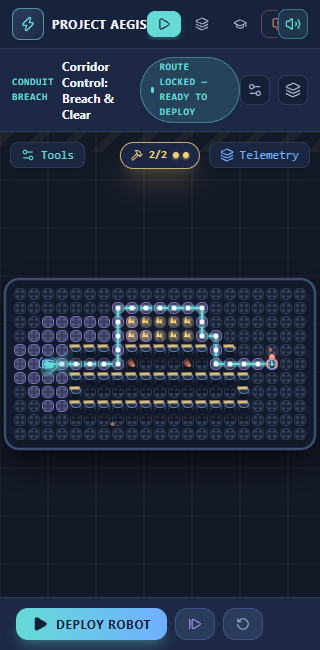
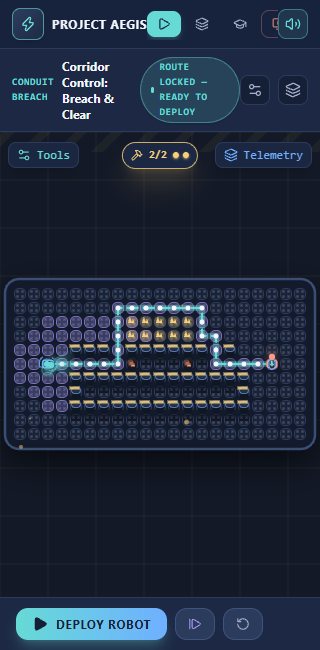
fix(v4.2.2): resolve pre-deploy presentation transit trigger re-arming and improve narrow viewport mobile HUD clearance

diff --git a/tests/v4_2_2_stability_mobile.test.ts b/tests/v4_2_2_stability_mobile.test.ts
@@ -282,5 +282,202 @@ describe('Project Aegis V4.2.2 Stability & Edge Cases Test Suite', () => {
       expect(robot.state).toBe('ARRIVED');
       expect(robot.logicalPos).toEqual(deepVaultMission.target);
     });
+
+    it('Replay after a breached Challenge Mission cleanly restores original mission state and repair charges', () => {
+      // 1. Setup and breach Challenge 1
+      const model = new GridModel(
+        challenge1Mission.rows,
+        challenge1Mission.cols,
+        challenge1Mission.start,
+        challenge1Mission.target
+      );
+      challenge1Mission.initialWalls.forEach((w) => model.setTile(w.r, w.c, 'WALL'));
+      challenge1Mission.initialRoughTerrain?.forEach((t) => model.setTile(t.r, t.c, 'ROUGH_TERRAIN'));
+      challenge1Mission.initialDebris?.forEach((d) => model.setTile(d.r, d.c, 'DEBRIS'));
+
+      let charges = challenge1Mission.repairCharges!;
+      expect(charges).toBe(2);
+
+      // Spend all charges
+      challenge1Mission.initialDebris!.forEach((d) => {
+        model.setTile(d.r, d.c, 'EMPTY');
+        charges--;
+      });
+      expect(charges).toBe(0);
+
+      // Navigate robot to destination
+      const robot = new RobotController(challenge1Mission.start);
+      const res = findPathAStar({
+        grid: model.tiles,
+        rows: model.rows,
+        cols: model.cols,
+        start: challenge1Mission.start,
+        goal: challenge1Mission.target,
+        movementMode: '4-directional',
+        heuristicType: 'manhattan',
+      });
+      robot.setPath(res.path, res.totalCost);
+      robot.startMoving();
+      while (robot.state === 'MOVING') {
+        robot.update(0.35, 10);
+      }
+      expect(robot.state).toBe('ARRIVED');
+      expect(robot.stepsTaken).toBe(16);
+
+      // 2. Perform Authoritative Replay (identical to handleReplayMission / GameHUD key re-mount)
+      const freshModel = new GridModel(
+        challenge1Mission.rows,
+        challenge1Mission.cols,
+        challenge1Mission.start,
+        challenge1Mission.target
+      );
+      challenge1Mission.initialWalls.forEach((w) => freshModel.setTile(w.r, w.c, 'WALL'));
+      challenge1Mission.initialRoughTerrain?.forEach((t) => freshModel.setTile(t.r, t.c, 'ROUGH_TERRAIN'));
+      challenge1Mission.initialDebris?.forEach((d) => freshModel.setTile(d.r, d.c, 'DEBRIS'));
+
+      robot.reset(challenge1Mission.start);
+      charges = challenge1Mission.repairCharges!;
+
+      // 3. Verify complete restoration of mission state
+      expect(charges).toBe(2);
+      expect(robot.state).toBe('IDLE');
+      expect(robot.logicalPos).toEqual(challenge1Mission.start);
+      expect(robot.stepsTaken).toBe(0);
+      expect(robot.executedCost).toBe(0);
+      expect(robot.replansCount).toBe(0);
+
+      // Debris tiles must be restored and blocking direct corridor
+      challenge1Mission.initialDebris!.forEach((d) => {
+        expect(freshModel.tiles[d.r][d.c]).toBe('DEBRIS');
+        expect(isTileBlocked(freshModel.tiles[d.r][d.c])).toBe(true);
+      });
+
+      // A* path is once again forced to take upper rough-terrain detour
+      const replayedPath = findPathAStar({
+        grid: freshModel.tiles,
+        rows: freshModel.rows,
+        cols: freshModel.cols,
+        start: challenge1Mission.start,
+        goal: challenge1Mission.target,
+        movementMode: '4-directional',
+        heuristicType: 'manhattan',
+      });
+      expect(replayedPath.found).toBe(true);
+      expect(replayedPath.path.length - 1).toBeGreaterThan(16);
+      expect(replayedPath.path.some((wp) => wp.r <= 3)).toBe(true);
+    });
+
+    it('Reset and mission switching with exhausted charges correctly isolates and restores each mission', () => {
+      // 1. Exhaust charges on Challenge 1
+      let c1Charges = challenge1Mission.repairCharges!;
+      c1Charges = 0; // all charges consumed
+
+      // Reset within Challenge 1
+      c1Charges = challenge1Mission.repairCharges!;
+      expect(c1Charges).toBe(2);
+
+      // Exhaust charges again
+      c1Charges = 0;
+
+      // 2. Switch to Deep Vault Quarantine (Challenge 2)
+      const deepVaultModel = new GridModel(
+        deepVaultMission.rows,
+        deepVaultMission.cols,
+        deepVaultMission.start,
+        deepVaultMission.target
+      );
+      deepVaultMission.initialWalls.forEach((w) => deepVaultModel.setTile(w.r, w.c, 'WALL'));
+      deepVaultMission.initialDebris?.forEach((d) => deepVaultModel.setTile(d.r, d.c, 'DEBRIS'));
+
+      let deepVaultCharges = deepVaultMission.repairCharges!;
+      expect(deepVaultCharges).toBe(2);
+
+      // Verify Deep Vault starts with its own distinct bulkheads intact
+      expect(deepVaultMission.initialDebris).toBeDefined();
+      deepVaultMission.initialDebris!.forEach((d) => {
+        expect(deepVaultModel.tiles[d.r][d.c]).toBe('DEBRIS');
+        expect(isTileDesignatedDebris(d, deepVaultMission)).toBe(true);
+        expect(isTileDesignatedDebris(d, challenge1Mission)).toBe(false);
+      });
+
+      // Exhaust Deep Vault charges
+      deepVaultCharges = 0;
+
+      // Reset Deep Vault
+      deepVaultCharges = deepVaultMission.repairCharges!;
+      expect(deepVaultCharges).toBe(2);
+
+      // Switch back to Challenge 1
+      const c1RestoredModel = new GridModel(
+        challenge1Mission.rows,
+        challenge1Mission.cols,
+        challenge1Mission.start,
+        challenge1Mission.target
+      );
+      challenge1Mission.initialWalls.forEach((w) => c1RestoredModel.setTile(w.r, w.c, 'WALL'));
+      challenge1Mission.initialDebris?.forEach((d) => c1RestoredModel.setTile(d.r, d.c, 'DEBRIS'));
+      const c1RestoredCharges = challenge1Mission.repairCharges!;
+
+      expect(c1RestoredCharges).toBe(2);
+      expect(c1RestoredModel.tiles[5][8]).toBe('DEBRIS');
+      expect(c1RestoredModel.tiles[5][12]).toBe('DEBRIS');
+    });
+
+    it('Pre-deploy presentation collapse suppresses false demo window re-arming during bypass transit', () => {
+      const model = new GridModel(
+        presentationMission.rows,
+        presentationMission.cols,
+        presentationMission.start,
+        presentationMission.target
+      );
+      presentationMission.initialWalls.forEach((w) => model.setTile(w.r, w.c, 'WALL'));
+
+      // Pre-deploy collapse placed at (5, 10)
+      const collapseCoord = presentationMission.demoBlockageCoord!;
+      model.setTile(collapseCoord.r, collapseCoord.c, 'WALL');
+
+      const isDemoBlockagePresent = isTileBlocked(model.tiles[collapseCoord.r][collapseCoord.c]);
+      expect(isDemoBlockagePresent).toBe(true);
+
+      const robot = new RobotController(presentationMission.start);
+      const plan = findPathAStar({
+        grid: model.tiles,
+        rows: model.rows,
+        cols: model.cols,
+        start: presentationMission.start,
+        goal: presentationMission.target,
+        movementMode: '4-directional',
+        heuristicType: 'manhattan',
+      });
+      expect(plan.found).toBe(true);
+      robot.setPath(plan.path, plan.totalCost);
+
+      // Start movement along the 20-step bypass
+      robot.startMoving();
+
+      // Step until robot reaches col 3 (inside coordinate bounds where demo window would normally trigger)
+      while (robot.state === 'MOVING' && robot.logicalPos.c < 3) {
+        robot.update(0.1, 2);
+      }
+
+      const tel = robot.getTelemetry();
+      expect(tel.currentLogicalCoord.c).toBeGreaterThanOrEqual(3);
+      expect(tel.currentLogicalCoord.r).toBe(5);
+
+      // Verify that because demo collapse is already present, demo window does NOT re-arm
+      const isInDemoWindow =
+        !isDemoBlockagePresent &&
+        tel.replansCount === 0 &&
+        tel.currentLogicalCoord.r === 5 &&
+        robot.state === 'MOVING' &&
+        tel.currentLogicalCoord.c >= 3 &&
+        tel.currentLogicalCoord.c <= 8;
+
+      expect(isInDemoWindow).toBe(false);
+
+      // Verify detour is actively recognized
+      const isDetourActive = tel.replansCount > 0 || (isDemoBlockagePresent && tel.totalStepsTaken > 0);
+      expect(isDetourActive).toBe(true);
+    });
   });
 });

diff --git a/src/components/GameHUD.tsx b/src/components/GameHUD.tsx
@@ -989,7 +989,7 @@ export const GameHUD: React.FC<GameHUDProps> = ({
                 setActiveDrawer('TOOLS');
               }}
               aria-label="Open Tools Drawer"
-              className="absolute top-2.5 sm:top-3 left-2.5 sm:left-3 z-20 px-2.5 sm:px-3 py-1 sm:py-1.5 rounded-lg bg-[#1C2844]/90 hover:bg-[#253554] border border-[#2B3B5B] text-xs font-mono text-[#66DAD5] flex items-center gap-1.5 shadow-lg backdrop-blur-md transition-all select-none"
+              className="absolute top-2.5 sm:top-3 left-2 sm:left-3 z-20 px-2 sm:px-3 py-1 sm:py-1.5 rounded-lg bg-[#1C2844]/90 hover:bg-[#253554] border border-[#2B3B5B] text-xs font-mono text-[#66DAD5] flex items-center gap-1.5 shadow-lg backdrop-blur-md transition-all select-none"
             >
               <Settings2 className="w-3.5 h-3.5 shrink-0" />
               <span>Tools<span className="hidden sm:inline"> [T]</span></span>
@@ -1003,7 +1003,7 @@ export const GameHUD: React.FC<GameHUDProps> = ({
               role="status"
               aria-label={`Repair Charges: ${repairCharges} of ${mission.repairCharges}`}
               title={`Repair Energy: ${repairCharges} / ${mission.repairCharges}`}
-              className={`absolute top-2.5 sm:top-3 left-1/2 -translate-x-1/2 z-20 px-2.5 sm:px-3.5 py-1 sm:py-1.5 rounded-full border shadow-xl backdrop-blur-md flex items-center gap-1.5 sm:gap-2 font-mono text-[11px] sm:text-xs font-bold transition-all whitespace-nowrap select-none pointer-events-auto ${
+              className={`absolute top-2.5 sm:top-3 left-1/2 -translate-x-1/2 z-20 px-2 sm:px-3.5 py-1 sm:py-1.5 rounded-full border shadow-xl backdrop-blur-md flex items-center gap-1.5 sm:gap-2 font-mono text-[11px] sm:text-xs font-bold transition-all whitespace-nowrap select-none pointer-events-auto ${
                 repairCharges > 0
                   ? 'bg-[#1C2844]/95 border-[#F5CF79]/80 text-[#F5CF79] shadow-[#F5CF79]/20'
                   : 'bg-[#1C2844]/95 border-[#FF9B83]/60 text-[#FF9B83]'
@@ -1034,7 +1034,7 @@ export const GameHUD: React.FC<GameHUDProps> = ({
                 setActiveDrawer('TELEMETRY');
               }}
               aria-label="Open Telemetry Drawer"
-              className="absolute top-2.5 sm:top-3 right-2.5 sm:right-3 z-20 px-2.5 sm:px-3 py-1 sm:py-1.5 rounded-lg bg-[#1C2844]/90 hover:bg-[#253554] border border-[#2B3B5B] text-xs font-mono text-[#6FAFFF] flex items-center gap-1.5 shadow-lg backdrop-blur-md transition-all select-none"
+              className="absolute top-2.5 sm:top-3 right-2 sm:right-3 z-20 px-2 sm:px-3 py-1 sm:py-1.5 rounded-lg bg-[#1C2844]/90 hover:bg-[#253554] border border-[#2B3B5B] text-xs font-mono text-[#6FAFFF] flex items-center gap-1.5 shadow-lg backdrop-blur-md transition-all select-none"
             >
               <Layers className="w-3.5 h-3.5 shrink-0" />
               <span>Telemetry<span className="hidden sm:inline"> [M]</span></span>

diff --git a/src/components/PresentationMode.tsx b/src/components/PresentationMode.tsx
@@ -368,19 +368,22 @@ export const PresentationMode: React.FC<PresentationModeProps> = ({ onExit }) =>
     !hasAutoHeldRef.current;
 
   // Demo window detection: while moving through transit conduit or paused in auto-hold
+  // (Only active if demo blockage has not already occurred pre-deployment)
   const isInDemoWindow =
+    !isDemoBlockagePresent &&
     telemetry.replans === 0 &&
     telemetry.r === 5 &&
     ((robotState === 'MOVING' && telemetry.c >= 3 && telemetry.c <= 8) ||
       (hasAutoHeldRef.current && robotState === 'IDLE'));
 
   const isPastDemoWindow =
+    !isDemoBlockagePresent &&
     telemetry.replans === 0 &&
     telemetry.stepsTaken > 0 &&
     ((telemetry.r === 5 && telemetry.c > 8) || telemetry.r !== 5) &&
     (robotState === 'MOVING' || robotState === 'IDLE');
 
-  const isDetourActive = telemetry.replans > 0;
+  const isDetourActive = telemetry.replans > 0 || (isDemoBlockagePresent && telemetry.stepsTaken > 0);
 
   // Compute status pill display
   let statusBadgeColor = 'bg-[#66DAD5]/20 border-[#66DAD5]/60 text-[#66DAD5]';
@@ -408,7 +411,9 @@ export const PresentationMode: React.FC<PresentationModeProps> = ({ onExit }) =>
   } else if (isDetourActive && robotState === 'MOVING') {
     statusBadgeColor = 'bg-[#66DAD5]/25 border-[#66DAD5] text-[#66DAD5]';
     statusBadgeDot = 'bg-[#66DAD5] animate-ping';
-    displayStatus = 'DYNAMIC REPLAN: A* DETOUR VIA BYPASS';
+    displayStatus = telemetry.replans > 0
+      ? 'DYNAMIC REPLAN: A* DETOUR VIA BYPASS'
+      : 'NAVIGATING BYPASS · DETOUR ACTIVE';
   } else if (robotState === 'BLOCKED' || robotState === 'REPLANNING') {
     statusBadgeColor = 'bg-[#FF9B83]/25 border-[#FF9B83]/80 text-[#FF9B83] animate-pulse';
     statusBadgeDot = 'bg-[#FF9B83]';
@@ -474,10 +479,13 @@ export const PresentationMode: React.FC<PresentationModeProps> = ({ onExit }) =>
         <span>TRIGGER COLLAPSE NOW</span>
       </>
     );
-  } else if (isDetourActive && robotState === 'MOVING') {
+  } else if (isDetourActive && (robotState === 'MOVING' || (robotState === 'IDLE' && telemetry.stepsTaken > 0))) {
     triggerButtonDisabled = true;
     triggerButtonClass = 'bg-[#86E3B4]/20 border-[#86E3B4]/60 text-[#86E3B4] cursor-default';
-    triggerButtonTitle = 'A* has successfully replanned around the collapse!';
+    triggerButtonTitle =
+      telemetry.replans > 0
+        ? 'A* has successfully replanned around the collapse!'
+        : 'Aegis-1 is navigating the planned bypass route around the collapse at (5, 10).';
     triggerButtonContent = (
       <>
         <Sparkles className="w-4 h-4 text-[#86E3B4]" />

diff --git a/RELEASE_NOTES_v4.2.2.md b/RELEASE_NOTES_v4.2.2.md
@@ -21,6 +21,7 @@
 ### 2. P1: Pre-Deploy Presentation Collapse Semantics
 - **Stationary Pre-Deployment State:** When triggering an emergency structural collapse before the robot is deployed, the map is dynamically updated with the collapse wall at `(5, 10)`, and A* recalculates and renders the planned 20-step upper bypass route.
 - **No Premature Automatic Transit:** Corrected the route blockage handler so the robot remains stationary at its starting waypoint `(5, 1)` with `0 steps taken` and `0 replans`.
+- **Pre-Deploy Transit State Guard:** During bypass transit following pre-deploy collapse, the demo trigger window is cleanly disarmed (`!isDemoBlockagePresent`), ensuring Aegis-1 does not falsely trigger another collapse or display confusing prompts while transiting columns 3–8. Status is accurately displayed as `NAVIGATING BYPASS · DETOUR ACTIVE` and trigger button displays locked `DETOUR IN PROGRESS`.
 - **Distinction of Initial Planning vs. Execution Replanning:** The replan counter mathematically distinguishes initial route calculation before movement (`replans = 0`) from mid-transit dynamic replanning (`replans = 1`). Total mission cost and telemetry remain mathematically consistent ($g(n) + \text{remaining} = \text{totalCost}$).
 - **Explicit Deployment Trigger:** Transit begins exclusively when the presenter explicitly clicks **Deploy Robot**. The robot then follows the genuine 20-step bypass route through row 3 to target arrival (`RESCUE COMPLETE · DETOUR SUCCESSFUL`).
 - **Mid-Transit Auto-Hold Preserved:** Auto-Hold waypoint pausing at `(5, 4)` and mid-transit dynamic replanning (producing the 20-step bypass with 1 replan) remain fully intact and operational.
@@ -31,14 +32,15 @@
 - **Zero-Charge Guard:** Attempting demolition of designated debris after charges reach zero is rejected (`ZERO REPAIR CHARGES — CONSERVE CHARGES OR DETOUR`) without charge mutation.
 - **Rapid Click Protection:** Subsequent clicks on already-cleared debris tiles are rejected (`DEBRIS ALREADY CLEARED`) without erroneously consuming charges.
 - **Dual Bulkhead Clearance:** Full mission completion verified on *Deep Vault Quarantine* after strategically breaching both bulkhead junctions.
-- **Authoritative Reset & Replay:** Reset and Replay mechanisms cleanly restore original mission geometry and full 2/2 repair charges.
+- **Authoritative Reset & Replay:** Reset and Replay mechanisms cleanly restore original mission geometry and full 2/2 repair charges, verified via automated test suites.
+- **Cross-Mission Charge Isolation:** Verified that exhausting charges in Challenge 1 and switching to Deep Vault Quarantine (or resetting) initializes fresh isolated repair charges and unbreached bulkheads.
 
 ---
 
 ## 🧪 Comprehensive Verification Record
 
-- **Unit Tests:** **60/60 passing** (`vitest run`) across 7 test suites:
-  - `tests/v4_2_2_stability_mobile.test.ts` (6 tests covering pre-deploy collapse semantics, logic-level challenge mode editing barriers, zero charge guards, rapid demolition click protection, and Deep Vault completion).
+- **Unit Tests:** **63/63 passing** (`vitest run`) across 7 test suites:
+  - `tests/v4_2_2_stability_mobile.test.ts` (9 tests covering pre-deploy collapse semantics, logic-level challenge mode editing barriers, zero charge guards, rapid demolition click protection, Deep Vault completion, authoritative replay restoration, cross-mission charge isolation, and pre-deploy transit state guards).
   - `tests/v4_2_1_gameplay_integrity.test.ts` (26 tests).
   - `tests/astar.test.ts` (12 tests).
   - `tests/challengeMechanic.test.ts` (4 tests).
@@ -55,6 +57,13 @@
   - `Scenario 4`: Structural Wall Demolition Immunity in both Challenge Missions.
   - `Scenario 5`: Sandbox Exploits Removed in Challenge Mode.
   - `Scenario 7 & 8`: Authoritative Reset & Replay Restoration.
-  - `Scenario 9`: Persistent Mobile Repair Counter & Multi-Viewport Bounding Box Non-Overlap (`320px`, `360px`, `375px`, `390px`, `430px`, `543px`) with `2 -> 1 -> 0` dynamic charge transitions.
+  - `Scenario 9`: Persistent Mobile Repair Counter & Multi-Viewport Bounding Box Non-Overlap:
+    - 320px: Clearance Left = 43px, Clearance Right = 17px, Height = 27px, Text = "2/2".
+    - 360px: Clearance Left = 63px, Clearance Right = 37px, Height = 27px.
+    - 375px: Clearance Left = 70px, Clearance Right = 44px, Height = 27px.
+    - 390px: Clearance Left = 78px, Clearance Right = 52px, Height = 27px.
+    - 430px: Clearance Left = 98px, Clearance Right = 72px, Height = 27px.
+    - 543px: Clearance Left = 154px, Clearance Right = 128px, Height = 27px.
+    - Dynamic charge transitions: `2/2` -> `1/2` -> `0/2` verified without overlap.
   - `Scenario 10`: Unrestricted Sandbox Lab Editing.
   - `Scenario 11 & 12`: Algorithm Arena Weighted Metrics (BFS 30.0 vs A\* 22.0 vs Dijkstra 22.0) & 0 Browser Console Errors.
